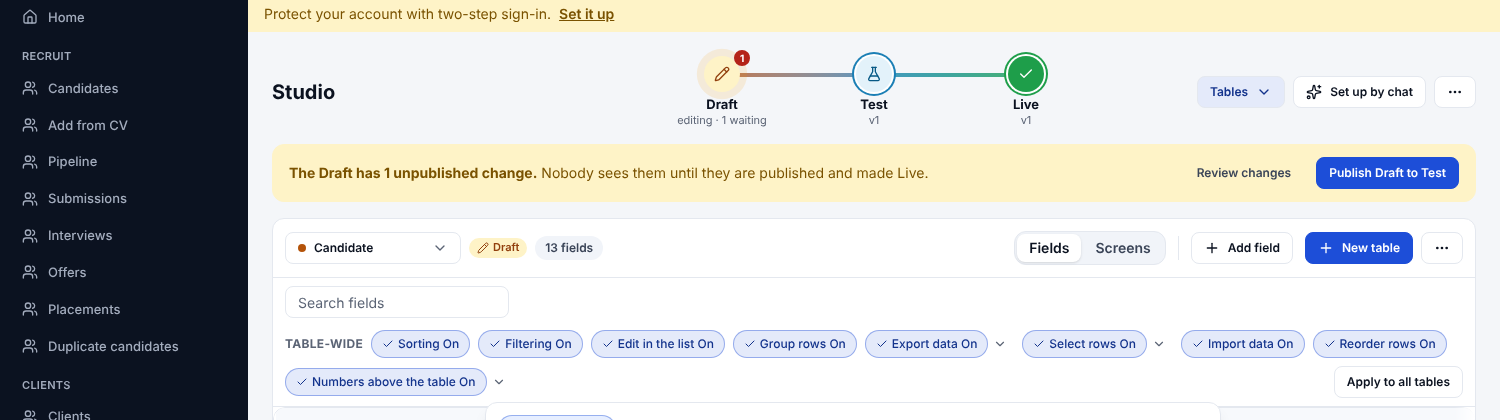
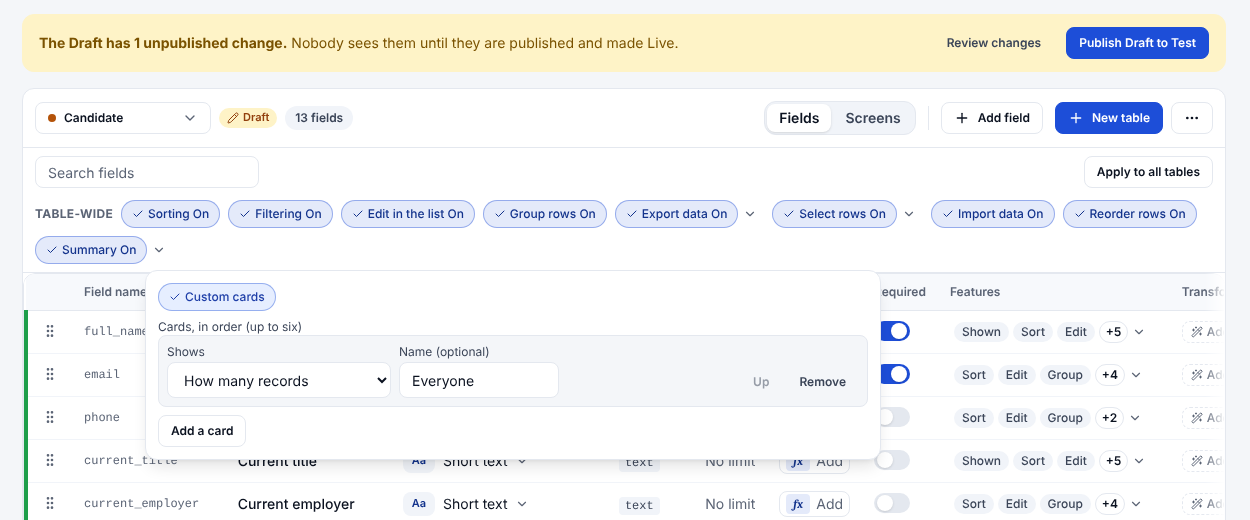
Table-wide bar: keep choice order, fix test data and screenshot clips
Claude-Session: https://claude.ai/code/session_01WKgCPB21QZrQNwipExUmFF

diff --git a/apps/web/e2e/s8-table-wide.spec.ts b/apps/web/e2e/s8-table-wide.spec.ts
@@ -15,20 +15,20 @@ test('The Table-wide bar replaces the Features tab: Import and Reorder switches,
     await expect(bar.getByRole('switch')).toHaveCount(9)
     for (const n of ['Import data', 'Reorder rows', 'Export data', 'Select rows', 'Summary']) await expect(bar.getByRole('switch', { name: new RegExp(`^${n}`) })).toBeChecked()
     await expect(page.getByRole('button', { name: 'Apply to all tables' })).toBeVisible()
-    await page.screenshot({ path: `${SHOTS}/table-wide-bar.png`, clip: { x: 300, y: 150, width: 1200, height: 230 } })
+    await page.screenshot({ path: `${SHOTS}/table-wide-bar.png`, clip: { x: 250, y: 190, width: 1250, height: 150 } })
   })
 
   await test.step('Each ▾ menu opens its own choices and saves at once', async () => {
     await bar.getByRole('button', { name: 'Export options' }).click()
     await featuresSaved(page, () => page.getByRole('checkbox', { name: 'Excel' }).uncheck())
-    await page.screenshot({ path: `${SHOTS}/table-wide-export-menu.png`, clip: { x: 300, y: 150, width: 1200, height: 230 } })
+    await page.screenshot({ path: `${SHOTS}/table-wide-export-menu.png`, clip: { x: 250, y: 190, width: 1250, height: 150 } })
     await page.keyboard.press('Escape')
     await bar.getByRole('button', { name: 'Summary options' }).click()
     const pop = page.getByRole('dialog', { name: 'Summary options' })
     await featuresSaved(page, () => pop.getByRole('checkbox', { name: 'Choose the summary cards myself' }).check())
     await featuresSaved(page, () => pop.getByLabel('Card 1 shows').selectOption('count'))
     await featuresSaved(page, async () => { await pop.getByLabel('Card 1 name').fill('Everyone'); await pop.getByLabel('Card 1 name').press('Enter') })
-    await page.screenshot({ path: `${SHOTS}/table-wide-numbers-menu.png`, clip: { x: 300, y: 150, width: 1200, height: 420 } })
+    await page.screenshot({ path: `${SHOTS}/table-wide-numbers-menu.png`, clip: { x: 250, y: 190, width: 1250, height: 520 } })
     await page.keyboard.press('Escape')
   })
 
@@ -37,6 +37,12 @@ test('The Table-wide bar replaces the Features tab: Import and Reorder switches,
     await featuresSaved(page, () => bar.getByRole('switch', { name: /^Reorder rows/ }).click())
     await publishLive(page)
     const rec = await freshSession(browser, page)
+    const made = await rec.evaluate(async () => (await fetch('/v1/records/candidate', {
+      method: 'POST',
+      headers: { 'Content-Type': 'application/json', Authorization: `Bearer ${sessionStorage.getItem('tableui.token')}` },
+      body: JSON.stringify({ data: { full_name: 'Bar Person', email: 'bar@example.in', phone: '+91 98450 12345', status: 'Active' } }),
+    })).status)
+    expect(made).toBe(201)
     await rec.goto('/s/candidates')
     await expect(rec.getByTestId('stats-strip')).toContainText('Everyone')
     await expect(rec.getByRole('button', { name: 'Import data' })).toHaveCount(0)

diff --git a/apps/web/src/features/studio/TableWideBar.tsx b/apps/web/src/features/studio/TableWideBar.tsx
@@ -33,7 +33,8 @@ const FORMATS: { value: TableFeatures['export_formats'][number]; label: string }
   { value: 'json', label: 'JSON' },
   { value: 'xlsx', label: 'Excel' },
 ]
-const toggle = <V extends string>(list: V[], v: V, on: boolean): V[] => (on ? [...new Set([...list, v])] : list.filter((x) => x !== v))
+/** Add or remove one choice, keeping the order the choices are listed in, so off and on again is no change. */
+const toggle = <V extends string>(list: V[], v: V, on: boolean, order: V[]): V[] => order.filter((x) => (x === v ? on : list.includes(x)))
 const smallLabel = 'text-xs font-semibold text-muted'
 
 /** The ▾ beside a switch: that feature's extra choices in a small pop-over. Every change saves to the Draft at once. */
@@ -78,7 +79,7 @@ export function TableWideBar({ table, canEdit, features, patch }: { table: Studi
           <fieldset className="flex flex-wrap gap-2" disabled={!canEdit}>
             <legend className="sr-only">Export formats</legend>
             {FORMATS.map((b) => (
-              <Chip key={b.value} checked={features.export_formats.includes(b.value)} disabled={!canEdit} onChange={(v) => patch({ export_formats: toggle(features.export_formats, b.value, v) })}>
+              <Chip key={b.value} checked={features.export_formats.includes(b.value)} disabled={!canEdit} onChange={(v) => patch({ export_formats: toggle(features.export_formats, b.value, v, FORMATS.map((x) => x.value)) })}>
                 {b.label}
               </Chip>
             ))}
@@ -96,7 +97,7 @@ export function TableWideBar({ table, canEdit, features, patch }: { table: Studi
           <fieldset className="flex flex-wrap gap-2" disabled={!canEdit}>
             <legend className="sr-only">Bulk actions allowed</legend>
             {BULK.map((b) => (
-              <Chip key={b.value} checked={features.bulk_actions.includes(b.value)} disabled={!canEdit} onChange={(v) => patch({ bulk_actions: toggle(features.bulk_actions, b.value, v) })}>
+              <Chip key={b.value} checked={features.bulk_actions.includes(b.value)} disabled={!canEdit} onChange={(v) => patch({ bulk_actions: toggle(features.bulk_actions, b.value, v, BULK.map((x) => x.value)) })}>
                 {b.label}
               </Chip>
             ))}
